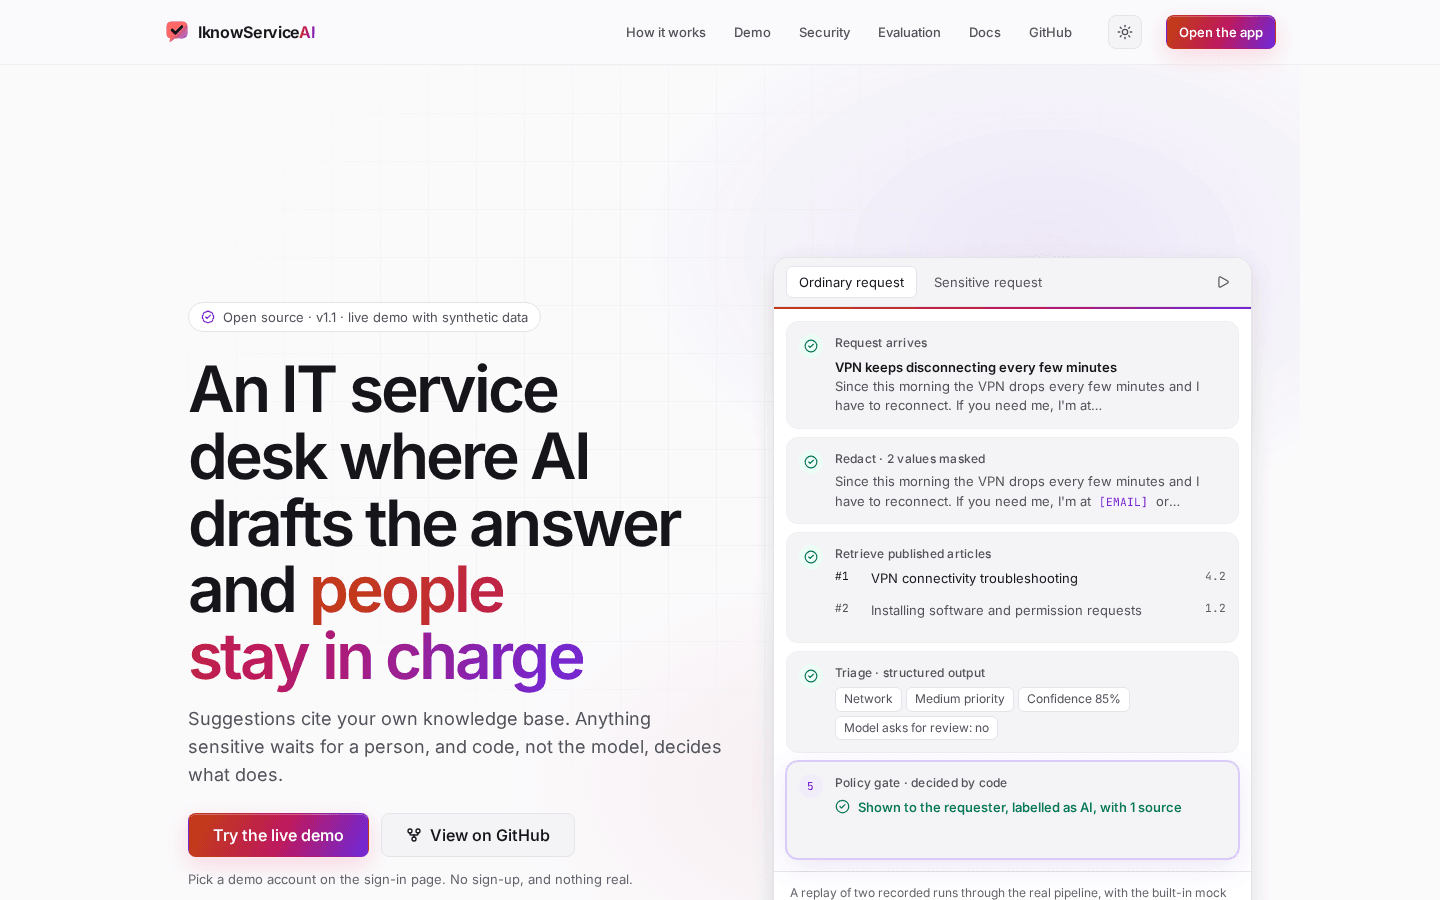
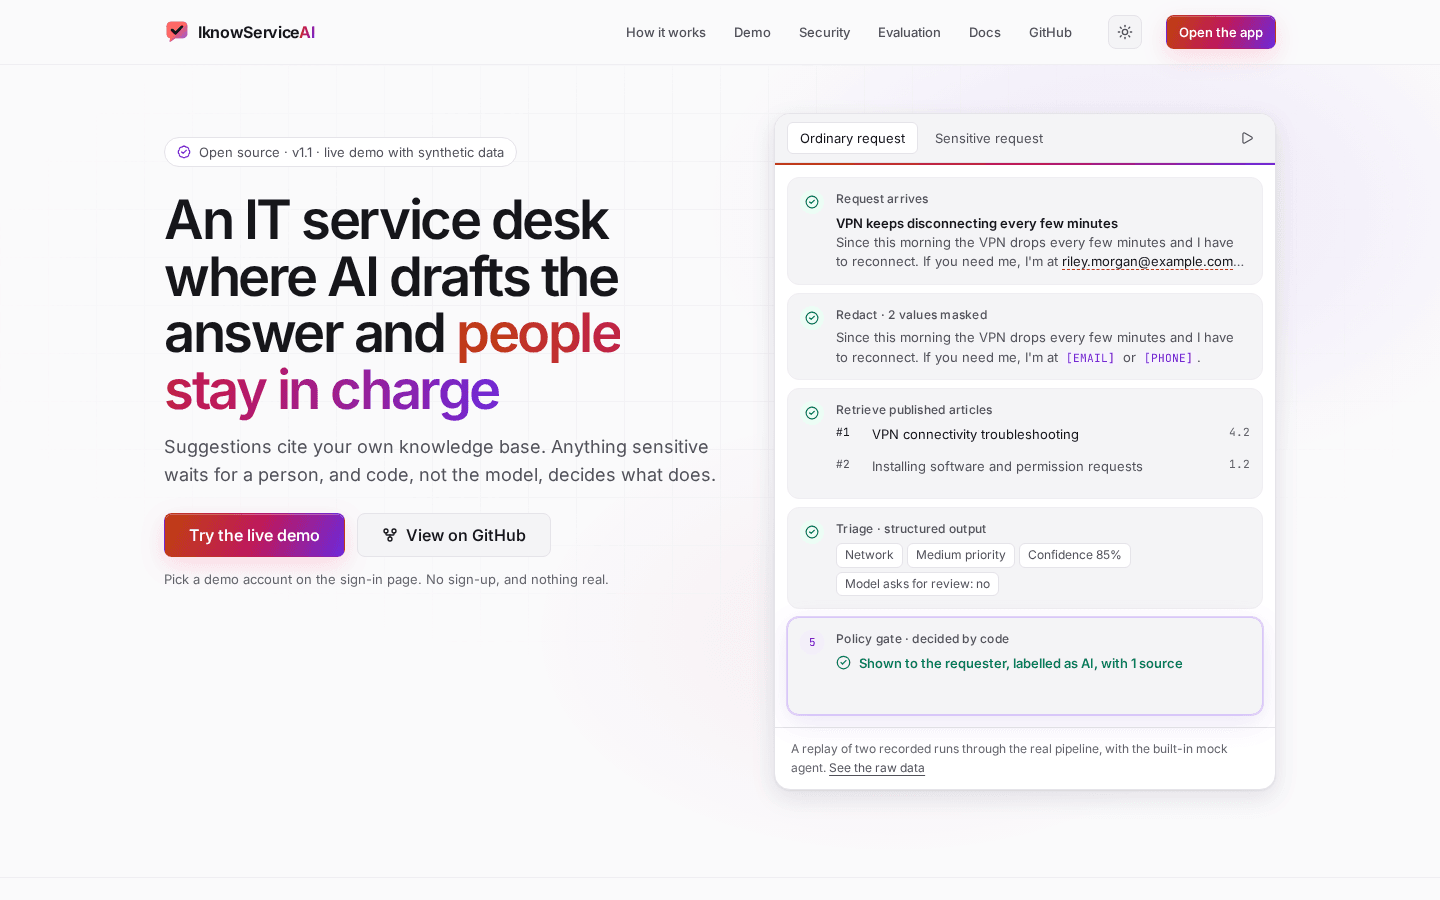
Start the website hero near the top of the first screen
A stale .site-hero rule in site.css overrode the one in sections.css and
doubled the top padding, and the copy was centred against the replay's
reserved 700 px. Remove the stale rule, align the hero to the top, and keep
the replay's reserved height so CLS stays 0. A browser test checks the
headline and buttons at 375, 1440 and 1920 px. Refresh the website
screenshots.

Fixes #21

diff --git a/e2e/tests/website.spec.js b/e2e/tests/website.spec.js
@@ -45,6 +45,40 @@ test.describe('Website @mobile', () => {
   })
 })
 
+// The headline and buttons start near the top of the first screen, with the replay beside them on wide
+// screens and below them on phones.
+async function expectHeroAtTop(page) {
+  await page.goto('/')
+  const replay = page.getByRole('figure', { name: /A replay of two recorded runs/ })
+  await expect(replay).toBeVisible()
+  const viewport = page.viewportSize()
+  const heading = await page.getByRole('heading', { level: 1 }).boundingBox()
+  const buttons = await page.getByRole('link', { name: 'Try the live demo' }).first().boundingBox()
+  const panel = await replay.boundingBox()
+  expect(heading.y).toBeLessThan(240)
+  expect(buttons.y + buttons.height).toBeLessThan(Math.min(viewport.height, 640))
+  if (viewport.width >= 1100) {
+    expect(panel.x).toBeGreaterThan(heading.x + heading.width)
+    expect(panel.y).toBeLessThan(heading.y)
+  } else {
+    expect(panel.y).toBeGreaterThan(buttons.y + buttons.height)
+  }
+}
+
+test.describe('Website hero @mobile', () => {
+  test('the headline and buttons are near the top of the first screen', async ({ page }) => {
+    await expectHeroAtTop(page)
+  })
+})
+
+test.describe('Website hero at 1920 px', () => {
+  test.use({ viewport: { width: 1920, height: 1080 } })
+
+  test('the headline and buttons are near the top of the first screen', async ({ page }) => {
+    await expectHeroAtTop(page)
+  })
+})
+
 test.describe('Old app addresses @mobile', () => {
   for (const [old, moved] of [
     ['/login', '/app/login'],

diff --git a/frontend/src/site/sections.css b/frontend/src/site/sections.css
@@ -44,27 +44,34 @@
   gap: var(--space-7);
   max-width: var(--site-width);
   margin: 0 auto;
-  padding: var(--space-8) var(--space-5);
+  padding: var(--space-6) var(--space-5) var(--space-8);
 }
 
+/* The copy starts at the top of the first screen. Nothing centres it against the replay's height. */
 @media (width >= 1100px) {
   .site-hero-inner {
     grid-template-columns: minmax(0, 1.12fr) minmax(0, 1fr);
-    align-items: center;
-    padding-top: var(--space-9);
-    padding-bottom: var(--space-9);
+    align-items: start;
+    padding-top: var(--space-7);
+    padding-bottom: var(--space-8);
   }
 
-  /* Holds the replay's height before its data arrives, so the copy beside it never moves. */
+  .site-hero-copy {
+    padding-top: var(--space-5);
+  }
+
+  /* Holds the replay's height before its data arrives, so nothing below the hero moves. */
   .site-hero-visual {
-    display: grid;
-    align-items: center;
     min-height: 700px;
   }
 }
 
 .site-hero h1 {
+  max-width: 900px;
+  margin-bottom: var(--space-4);
   font-size: clamp(2.25rem, 1.5rem + 2.6vw, 3.4rem);
+  line-height: 1.04;
+  letter-spacing: -0.045em;
 }
 
 .site-pill {

diff --git a/frontend/src/site/site.css b/frontend/src/site/site.css
@@ -229,22 +229,6 @@ body {
   margin-top: var(--space-5);
 }
 
-/* Hero */
-
-.site-hero {
-  max-width: var(--site-width);
-  margin: 0 auto;
-  padding: var(--space-9) var(--space-5) var(--space-8);
-}
-
-.site-hero h1 {
-  max-width: 900px;
-  margin-bottom: var(--space-4);
-  font-size: clamp(2.25rem, 1.2rem + 4.2vw, 4rem);
-  line-height: 1.04;
-  letter-spacing: -0.045em;
-}
-
 /* Not found */
 
 .site-not-found {

diff --git a/docs/IMPLEMENTATION_STATUS.md b/docs/IMPLEMENTATION_STATUS.md
@@ -1,6 +1,6 @@
 # Implementation status
 
-Updated: 2026-11-11
+Updated: 2026-11-12
 Current phase: complete, in maintenance. `v1.1.0` adds a brand, a public website at `/` and a redesigned app under `/app` (Run 07). The public demo is live and verified.
 Branch: main; see `git log --oneline` for the commit
 Deployment status: live at https://iknowserviceai.onrender.com, on Render and Neon. Remote: `origin`, private until the owner makes it public
@@ -26,6 +26,10 @@ Deployment status: live at https://iknowserviceai.onrender.com, on Render and Ne
 Decisions changed since blueprint: ADR-000 (doc file mapping), ADR-015 (any-term search ordering), ADR-021 (schema refinements), ADR-024 (query-focused snippets), ADR-025 (append-only triggers narrow ADR-007), ADR-027 (uncited replies always need review), ADR-028 (generic failure code for requesters), ADR-029 (Gemini call shape), ADR-031 (escalation withholds a visible reply), ADR-032 (mock citations), ADR-033 (added API filters and counts), ADR-034 (frontend structure), ADR-035 (auto-analysis), ADR-036 (staff screen for every request), ADR-037 (Playwright in Docker), ADR-038 to ADR-043 (Run 04 behavior changes), ADR-044 (one production container, replacing the blueprint's separate hosts), ADR-045 (refresh cookie, replacing ADR-009's reload behavior), ADR-046 to ADR-050 (demo help, database role, headers, evaluation, CI), ADR-061 (three proxy hops on Render, replacing part of ADR-052). See [the ADR log](ARCHITECTURE_DECISIONS.md).
 
 Current blockers: none.
+
+## Maintenance fixes
+
+- **Hero spacing (#21): DONE.** On desktop the hero's headline started at 368 px and its buttons ended at 868 of 900 px. A stale `.site-hero` rule in `site.css` overrode `sections.css`, and the copy was centred against the replay's 700 px. Now the headline starts at 191 px at 1440 and 1920 px, and 171 px at 375 px, with CLS 0 when the replay's data arrives 2 s late. `e2e/tests/website.spec.js` checks the position at 375, 1440 and 1920 px.
 
 ## Run 07 progress: product-grade redesign and a public website (v1.1.0)
 

diff --git a/docs/NEXT_AGENT_PROMPT.md b/docs/NEXT_AGENT_PROMPT.md
@@ -1,8 +1,8 @@
 # Maintenance handoff
 
-Last updated: 2026-11-11
+Last updated: 2026-11-12
 
-**State:** `v1.1.0` is released. The public website is at https://iknowserviceai.onrender.com and the app at `/app`. The project is in maintenance. No work is in progress. Run 07's report is `docs/RUN_REPORTS/RUN_07.md`.
+**State:** `v1.1.0` is released. The public website is at https://iknowserviceai.onrender.com and the app at `/app`. The project is in maintenance. No work is in progress. Run 07's report is `docs/RUN_REPORTS/RUN_07.md`. Since then, the hero spacing fix (#21) is merged.
 
 Read `AGENTS.md`, `docs/IMPLEMENTATION_STATUS.md`, `docs/RUN_REPORTS/RUN_06.md`, `docs/DEPLOYMENT.md` and `docs/RUNBOOK.md`. Code and tests are ground truth.
 

diff --git a/CHANGELOG.md b/CHANGELOG.md
@@ -1,5 +1,11 @@
 # Changelog
 
+## Unreleased
+
+### Fixed
+
+- The website's hero no longer starts halfway down the first screen on desktop. An older `.site-hero` rule in `site.css` overrode the current one and doubled the top padding, and the copy was centred against the replay's reserved 700 px. The headline now starts 126 px below the navigation at 1440 and 1920 px, and the buttons are in the first screen at 375 px. CLS stays 0. A browser test checks it at 375, 1440 and 1920 px (#21).
+
 ## v1.1.0: 2026-11-12
 
 A new brand, a public website, and a redesigned app. No change to the AI workflow, its safety gates, the API or the data model.
